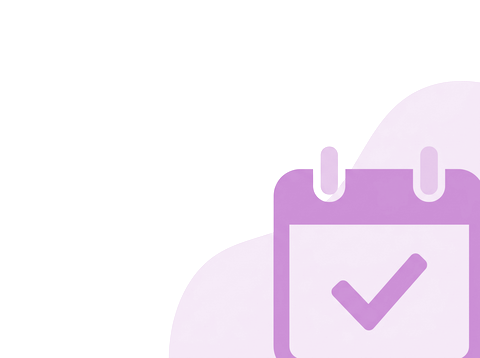
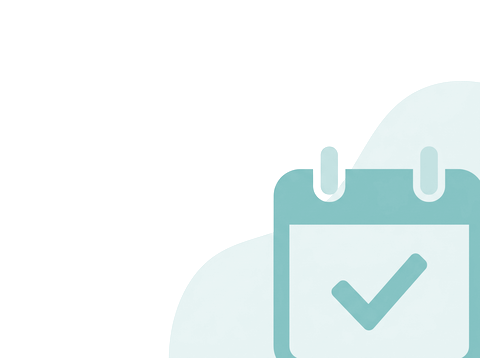
feat: update quick action accents to use brand color for consistency

Changed region(s): [[0.5625, 0.3994, 1.0, 1.0], [0.6875, 0.7067, 0.9062, 0.9218]]

diff --git a/mobile/lib/features/home/presentation/patient_home_screen.dart b/mobile/lib/features/home/presentation/patient_home_screen.dart
@@ -1104,7 +1104,7 @@ class _QuickActions extends StatelessWidget {
         subtitle: 'Find and book a doctor',
         icon: Icons.calendar_month_rounded,
         artwork: 'calendar',
-        accent: accentForColorKey('teal'),
+        accent: brandAccent,
         onTap: () => context.push('/search'),
       ),
       _QuickActionTile(
@@ -1112,7 +1112,7 @@ class _QuickActions extends StatelessWidget {
         subtitle: 'Get health advice instantly',
         icon: Icons.auto_awesome_rounded,
         artwork: 'sparkles',
-        accent: accentForColorKey('pink'),
+        accent: brandAccent,
         onTap: () => context.push('/ai-search'),
       ),
       _QuickActionTile(
@@ -1120,7 +1120,7 @@ class _QuickActions extends StatelessWidget {
         subtitle: 'Chat with your doctor',
         icon: Icons.chat_bubble_rounded,
         artwork: 'chat',
-        accent: accentForColorKey('blue'),
+        accent: brandAccent,
         onTap: () => context.push('/home/chats'),
       ),
       _QuickActionTile(
@@ -1128,7 +1128,7 @@ class _QuickActions extends StatelessWidget {
         subtitle: 'View and manage your visits',
         icon: Icons.fact_check_rounded,
         artwork: 'calendar_check',
-        accent: accentForColorKey('purple'),
+        accent: brandAccent,
         onTap: () => context.push('/home/appointments'),
       ),
     ];

diff --git a/mobile/lib/core/theme/app_colors.dart b/mobile/lib/core/theme/app_colors.dart
@@ -30,11 +30,18 @@ const _specialtyAccents = <String, SpecialtyAccent>{
   'Pediatrics': SpecialtyAccent(Color(0xFFE0F7F4), Color(0xFF12B8A6)),
   'Orthopedic Surgery': SpecialtyAccent(Color(0xFFFFF3E0), Color(0xFFFF9800)),
   'Cardiology': SpecialtyAccent(Color(0xFFFDE3EC), Color(0xFFE91E63)),
-  'Obstetrics & Gynecology': SpecialtyAccent(Color(0xFFF3E5FF), Color(0xFF9C27B0)),
+  'Obstetrics & Gynecology': SpecialtyAccent(
+    Color(0xFFF3E5FF),
+    Color(0xFF9C27B0),
+  ),
   'Emergency Medicine': SpecialtyAccent(Color(0xFFFFE3E3), Color(0xFFF44336)),
 };
 
-const _defaultAccent = SpecialtyAccent(Color(0xFFE0F2F2), seedTeal);
+const _defaultAccent = brandAccent;
+
+/// The teal pastel/vivid pair used for home cards so they all share the
+/// brand colour instead of per-category accents.
+const brandAccent = SpecialtyAccent(Color(0xFFE0F2F2), seedTeal);
 
 /// Distinct pastel-background/vivid-icon color pair per specialty, matching
 /// the reference design's colorful category chips. Falls back to a neutral

diff --git a/mobile/lib/features/doctors/presentation/category_card.dart b/mobile/lib/features/doctors/presentation/category_card.dart
@@ -41,7 +41,8 @@ class CategoryCard extends StatelessWidget {
   @override
   Widget build(BuildContext context) {
     final accent = accentForColorKey(category.colorKey);
-    if (tinted) return _buildTinted(context, accent);
+    // Home cards all use the brand teal for a consistent look.
+    if (tinted) return _buildTinted(context, brandAccent);
     return SoftCard(
       onTap: () => context.push('/search', extra: category.name),
       color: Colors.white,
